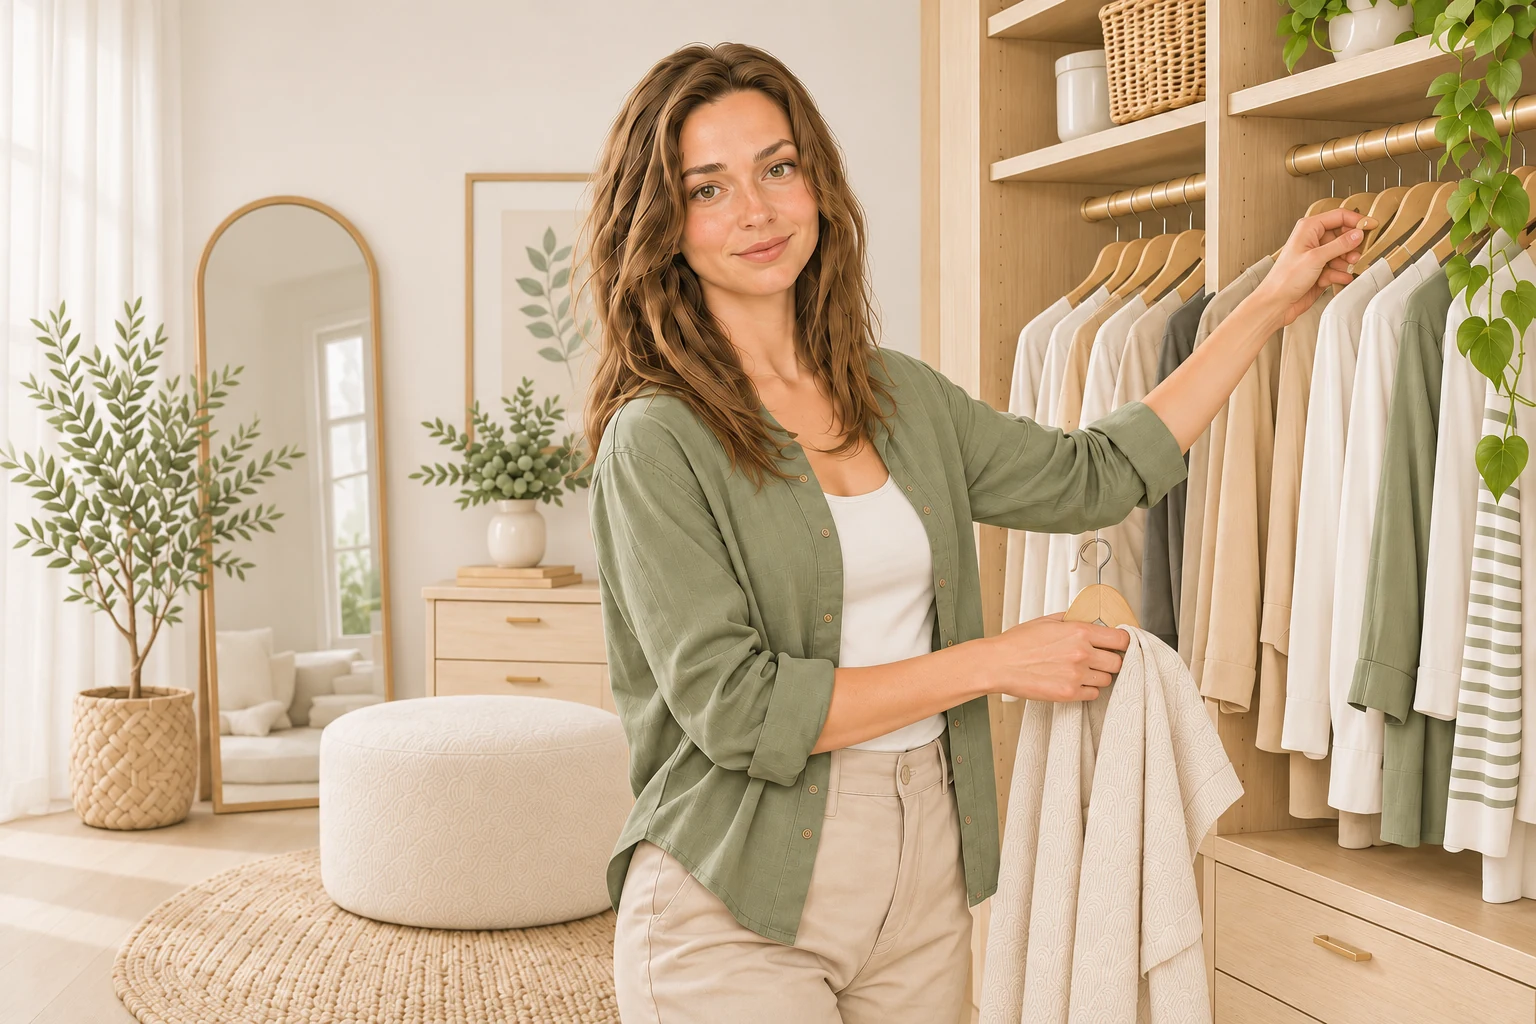
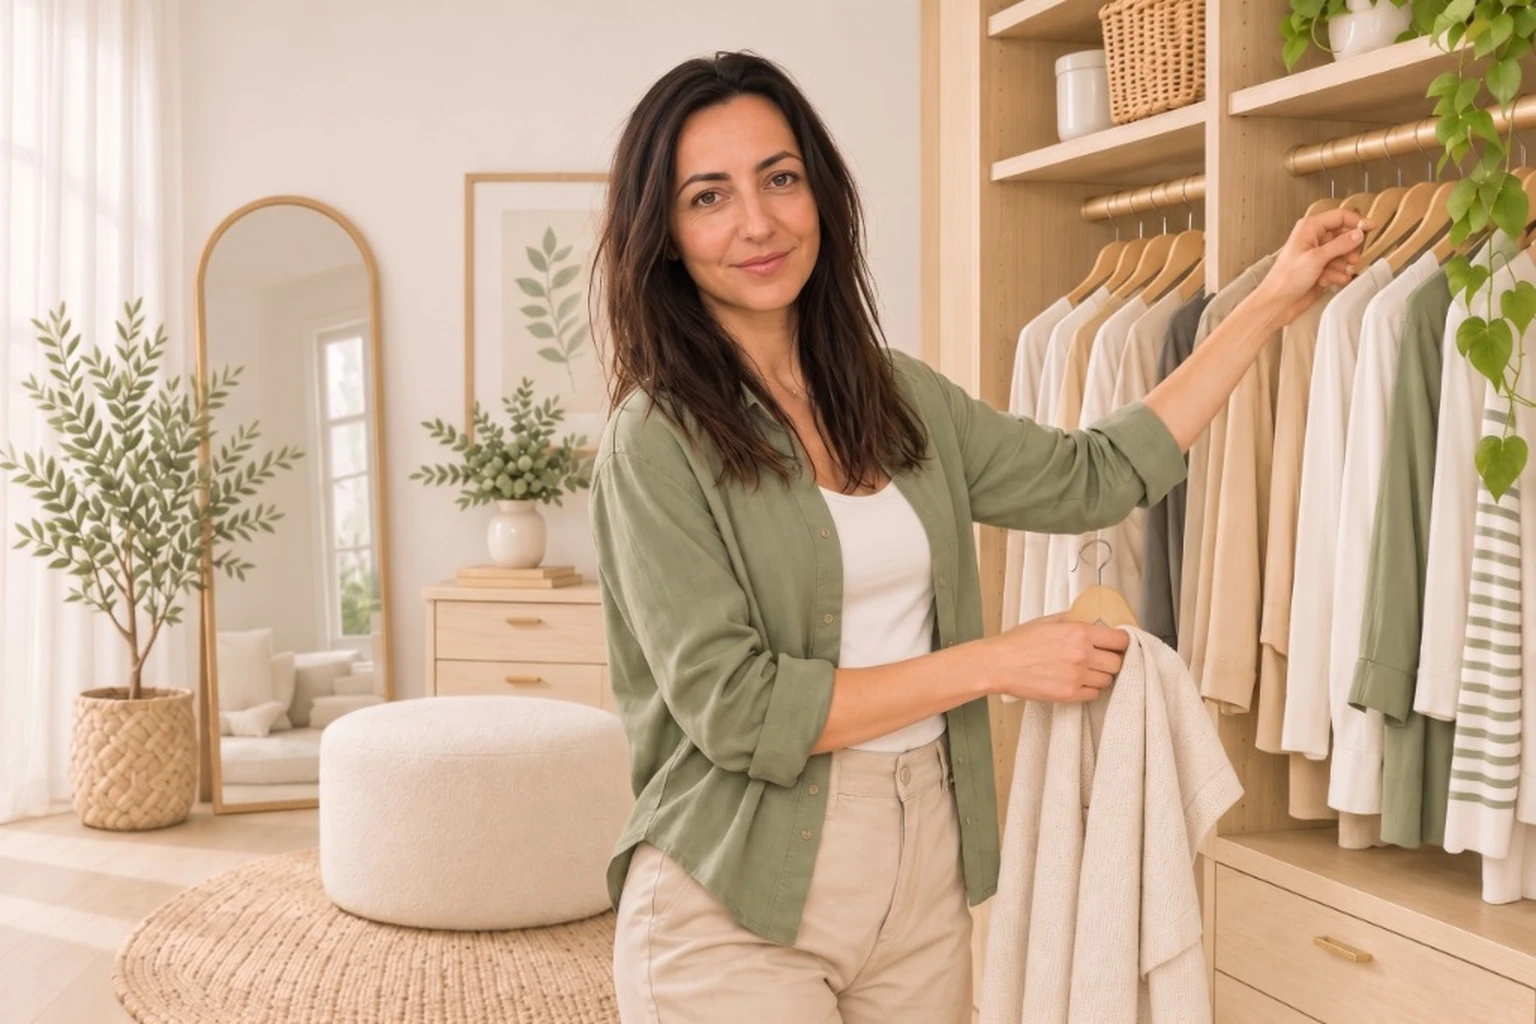
feat: update Home page copy and swap hero photo with owner portrait

diff --git a/src/pages/Home.tsx b/src/pages/Home.tsx
@@ -19,14 +19,23 @@ export default function Home() {
         <SplitHero
           image="hero-wardrobe-woman"
           imageAlt="Magda arranging neutral and sage clothes in a calm, light wardrobe"
-          imagePosition="75% 30%"
+          imagePosition="75% 22%"
           labelledBy="home-title"
+          className="qs-split-home"
         >
-          <h1 id="home-title">Did you know?</h1>
-          <p>Research from Yale University suggests that visual clutter can affect how visual information is processed in the brain.</p>
-          <p>For some people, being surrounded by too many things can feel distracting. Creating a calmer, more organised space may help make everyday life feel easier.</p>
-          <p className="lede">Less clutter. More calm.</p>
-          <Link className="qs-button" href="/services">Explore Services <ArrowRight size={18} /></Link>
+          <h1 id="home-title">Home Organising, Decluttering &amp; Practical Help at Home</h1>
+          <p className="lede">If you need some help at home because you feel like things have piled up, you’re in the right place.</p>
+          <div className="qs-home-body">
+            <p>I love looking after homes and organising spaces. Before we get started, I can help you make a practical plan. We’ll work out what needs doing first, where things should go and how to make better use of the space you have.</p>
+            <p>I can help you sort through your belongings, organise cupboards and wardrobes, and find practical storage solutions that work for you. If you’ve just moved, I can help you unpack and find a place for everything. I can also help you pack before a move or get your home ready to sell.</p>
+            <p>I can help with other things too, like arranging cleaning or laundry services, picking up an order or dropping things off at a charity shop.</p>
+            <p>I’m hardworking, very organised and hands-on. I pay attention to the little details and enjoy finding practical ways to make your home easier to live in.</p>
+            <p className="qs-home-close">Just get in touch and tell me what you need, and we’ll see how I can help.</p>
+          </div>
+          <div className="qs-home-actions">
+            <Link className="qs-button" href="/contact">Get in Touch <ArrowRight size={18} /></Link>
+            <Link className="qs-button qs-button-outline" href="/services">Explore Services</Link>
+          </div>
         </SplitHero>
 
         <section className="qs-tiles" aria-label="Our services">

diff --git a/src/redesign.css b/src/redesign.css
@@ -224,7 +224,18 @@
 .qs-split-copy .lede { font-family: var(--qs-serif); font-size: clamp(1.6rem, 3vw, 2.3rem); font-weight: 600; line-height: 1.15; color: var(--qs-ink); margin: 0 0 18px; }
 .qs-split-copy p { margin: 0 0 18px; font-family: var(--qs-serif); font-size: clamp(1.15rem, 1.9vw, 1.5rem); font-weight: 500; line-height: 1.4; color: var(--qs-ink); }
 .qs-split-copy .qs-button { margin-top: 10px; }
+.qs-split-home .qs-split-copy { padding: clamp(32px, 4.5vw, 56px) 0; }
+.qs-split-home .qs-split-copy > * { max-width: min(600px, 52%); }
+.qs-split-home .qs-split-copy h1 { font-size: clamp(2.1rem, 3.6vw, 3.1rem); line-height: 1.08; margin-bottom: 14px; }
+.qs-split-home .qs-split-copy .lede { font-size: clamp(1.2rem, 1.8vw, 1.48rem); line-height: 1.25; margin-bottom: 16px; color: var(--qs-olive-dark); }
+.qs-home-body p { font-family: var(--qs-sans); font-size: clamp(0.95rem, 1.15vw, 1.03rem); font-weight: 300; line-height: 1.65; color: var(--qs-body); margin: 0 0 12px; }
+.qs-home-body p.qs-home-close { font-weight: 500; color: var(--qs-ink); margin-bottom: 0; }
+.qs-home-actions { display: flex; flex-wrap: wrap; gap: 12px; margin-top: 22px; }
+.qs-split-home .qs-home-actions .qs-button { margin-top: 0; }
+.qs-button-outline { background: rgba(253, 251, 247, 0.72); color: var(--qs-olive-dark); border: 1px solid var(--qs-olive); }
+.qs-button-outline:hover { background: var(--qs-sage-wash); color: var(--qs-olive-dark); }
 @media (max-width: 860px) {
+  .qs-split-home .qs-split-copy > * { max-width: none; }
   .qs-split { display: block; min-height: 0; }
   .qs-split-photo { position: relative; width: 100%; height: 300px; }
   .qs-split-photo img { -webkit-mask-image: linear-gradient(180deg, #000 55%, transparent 100%); mask-image: linear-gradient(180deg, #000 55%, transparent 100%); }

diff --git a/src/components/SplitHero.tsx b/src/components/SplitHero.tsx
@@ -11,11 +11,12 @@ type Props = {
   imagePosition?: string;
   children: React.ReactNode;
   labelledBy?: string;
+  className?: string;
 };
 
-export function SplitHero({ image, imageAlt, imagePosition = "center", children, labelledBy }: Props) {
+export function SplitHero({ image, imageAlt, imagePosition = "center", children, labelledBy, className }: Props) {
   return (
-    <section className="qs-split" aria-labelledby={labelledBy}>
+    <section className={className ? `qs-split ${className}` : "qs-split"} aria-labelledby={labelledBy}>
       <img className="qs-split-leaves" src={leavesUrl} alt="" aria-hidden="true" />
       <div className="qs-split-photo">
         <img src={assetUrl(`images/redesign/${image}.webp`)} alt={imageAlt} style={{ objectPosition: imagePosition }} />
